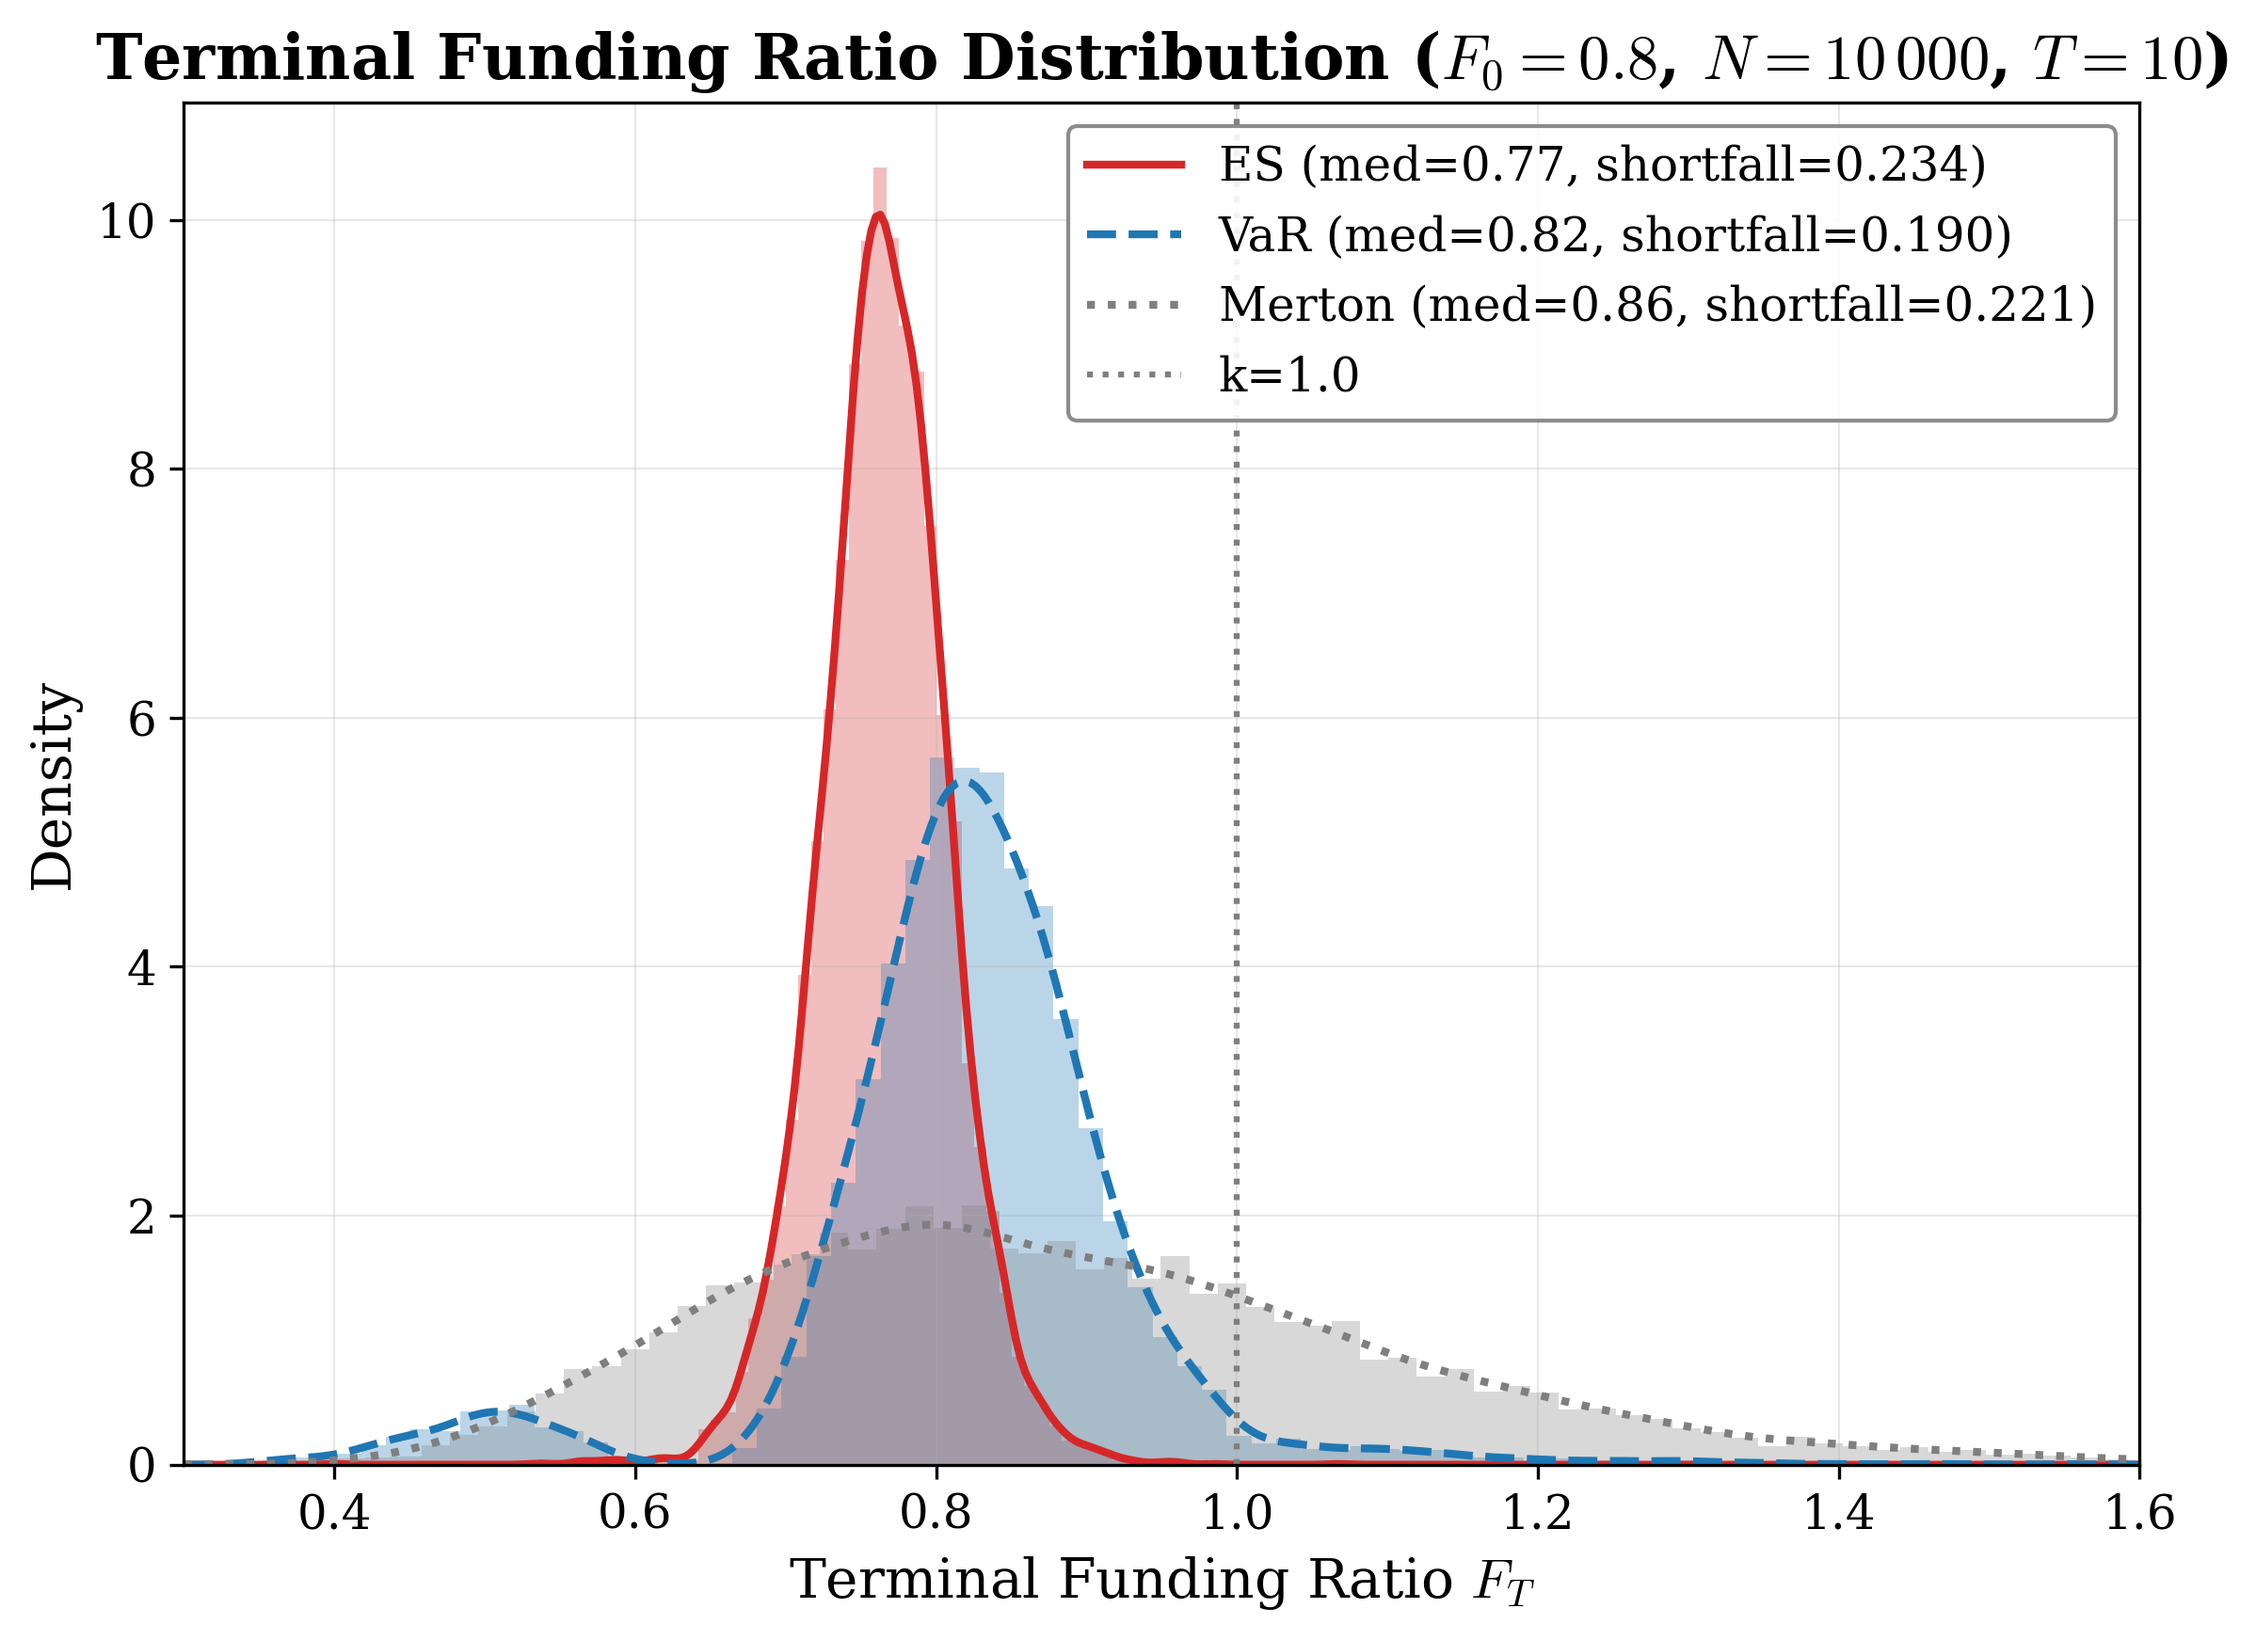
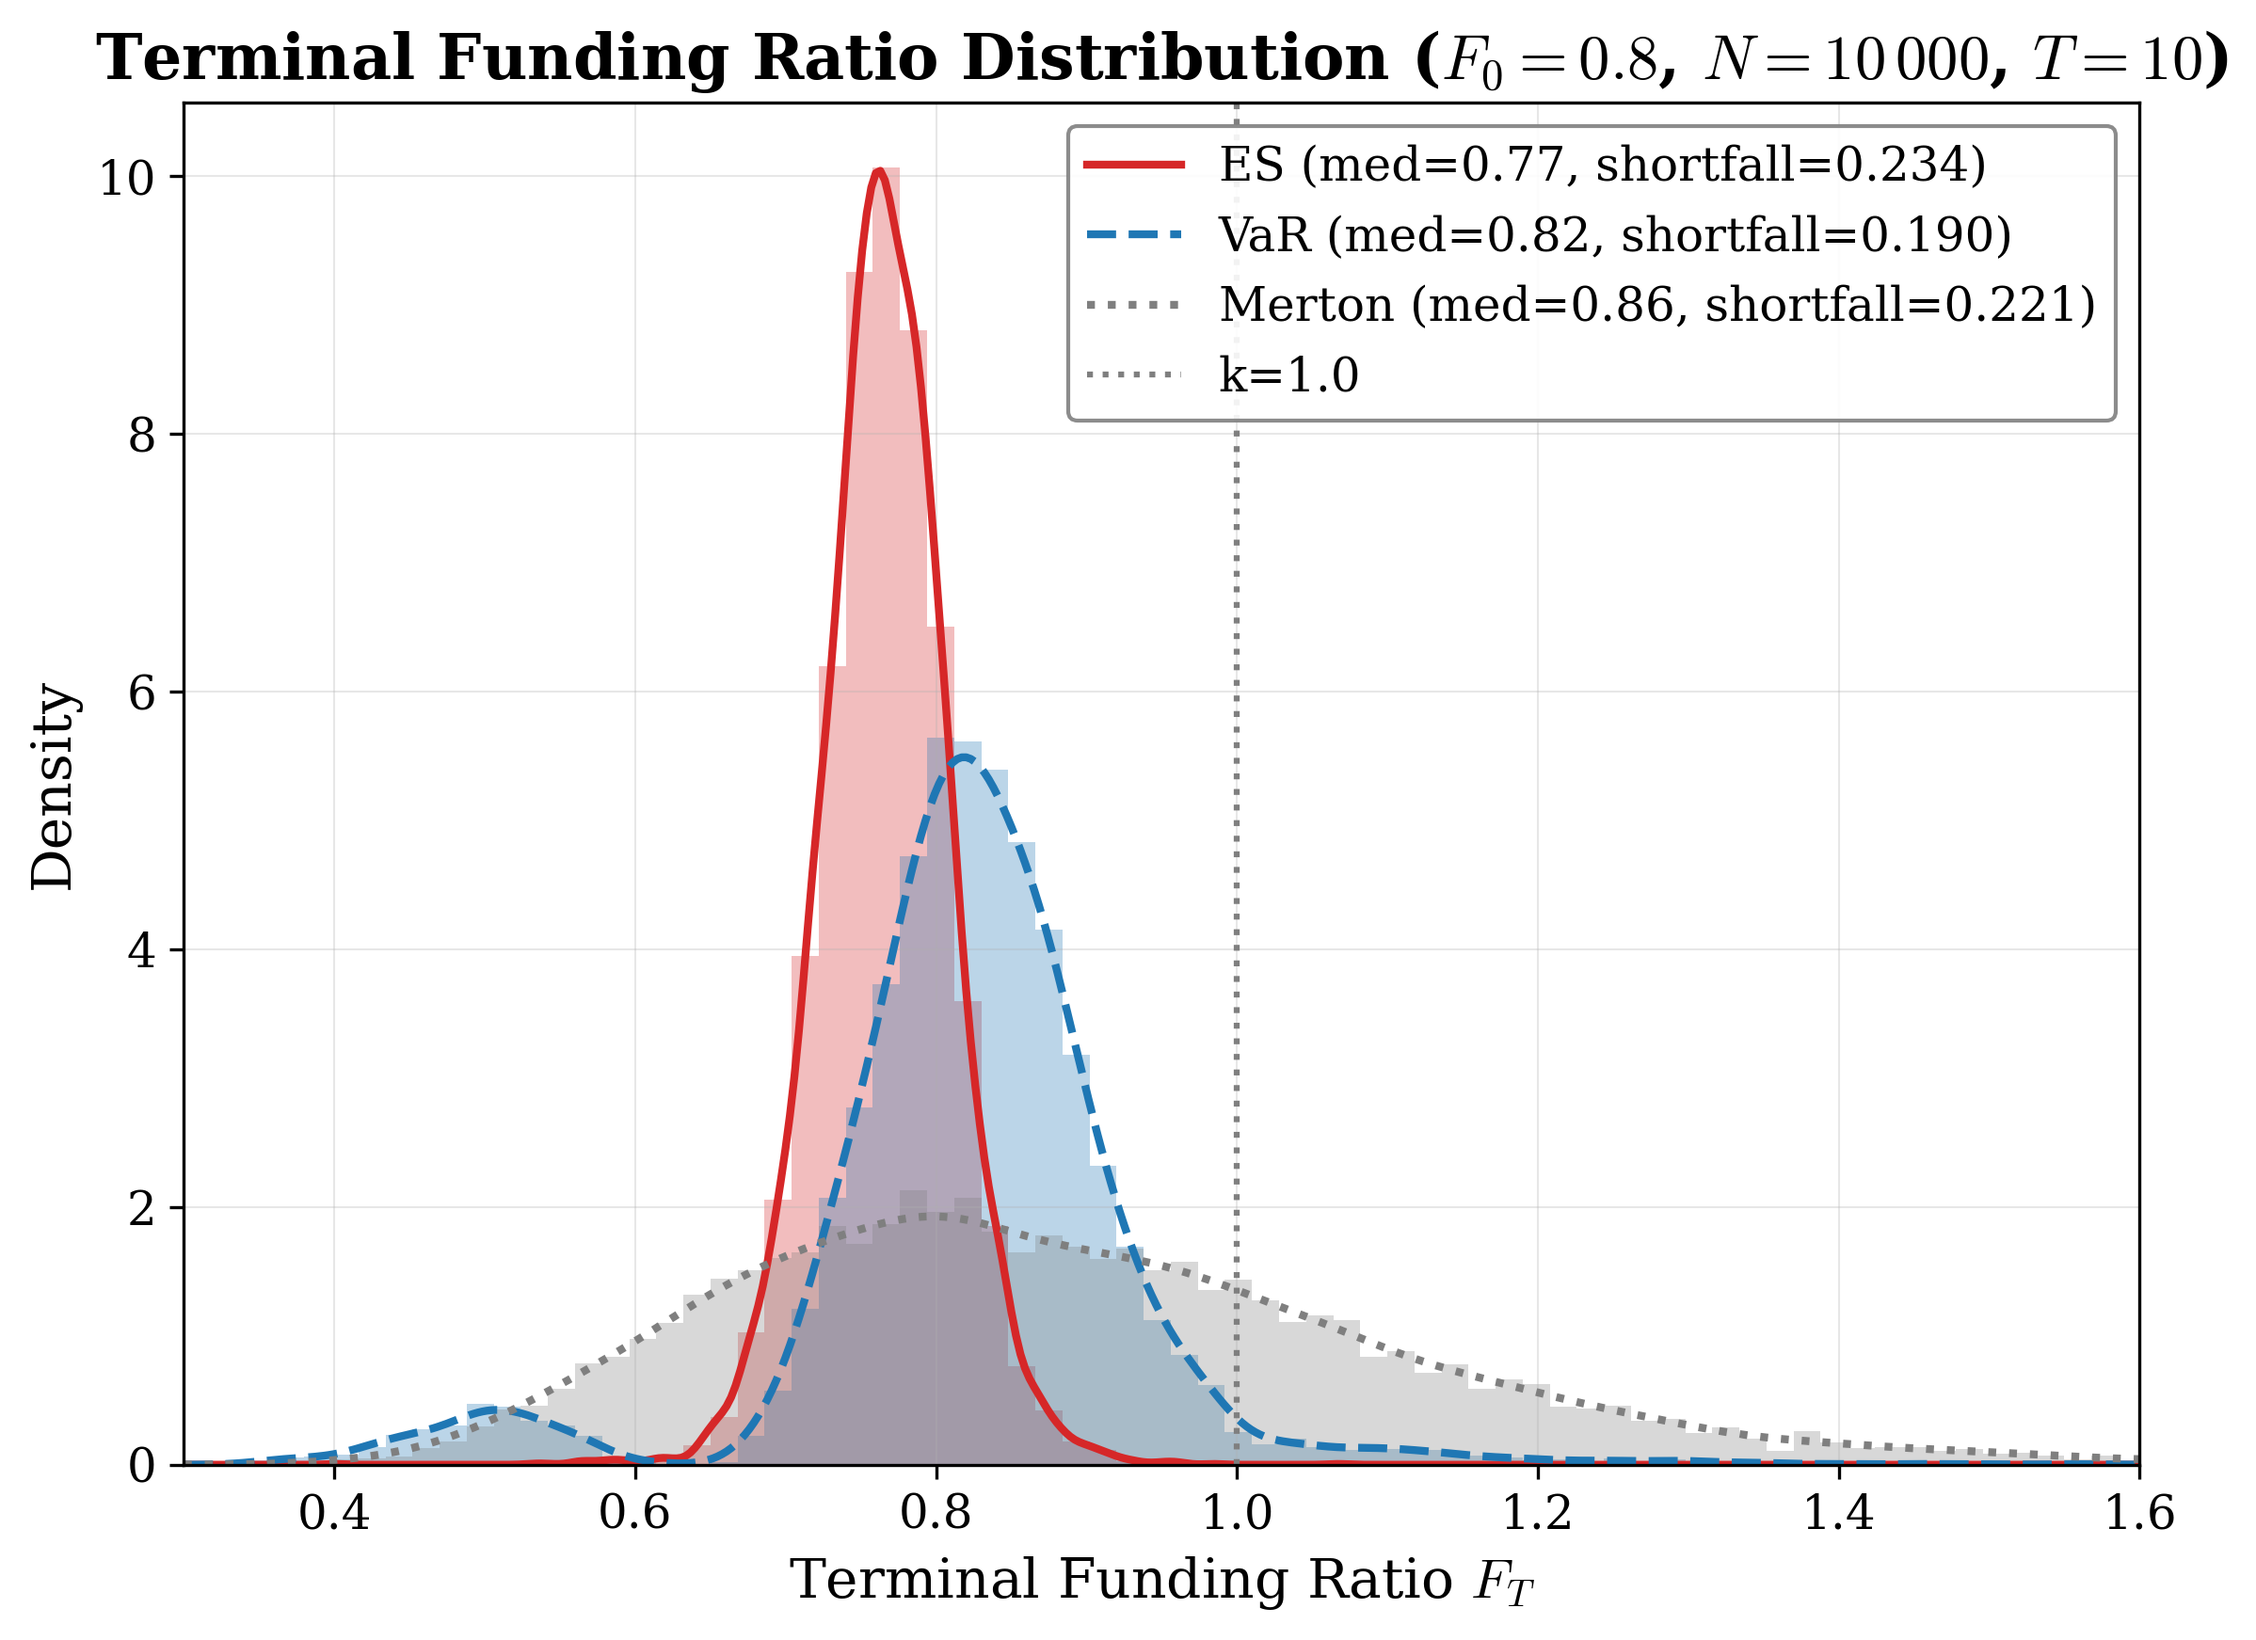
MC terminal: clip 제거, hist range 확장으로 1.6 끝 몰림 해결
https://claude.ai/code/session_016kjvHphKj23btj2NkXoUS2

diff --git a/scripts/run_monte_carlo.py b/scripts/run_monte_carlo.py
@@ -100,13 +100,12 @@ def run_scenario(y0, tag=""):
     for model in MODELS:
         Y_T = results[model]['paths'][:, -1]
         ts = results[model]['tstats']
-        # Clip outliers to [0, 1.8] for visibility
-        Y_T_clip = np.clip(Y_T, 0, 1.8)
+        # No clipping — let xlim handle visible range
         # Histogram with low alpha (KDE is the primary visual)
-        ax.hist(Y_T_clip, bins=80, alpha=0.3, color=MC_COLORS[model],
-                density=True)
+        ax.hist(Y_T, bins=100, range=(0.2, 2.0), alpha=0.3,
+                color=MC_COLORS[model], density=True)
         # KDE overlay
-        kde = gaussian_kde(Y_T_clip)
+        kde = gaussian_kde(Y_T)
         x_kde = np.linspace(0.3, 1.8, 500)
         ax.plot(x_kde, kde(x_kde), color=MC_COLORS[model], lw=2,
                 linestyle=kde_linestyles[model],
